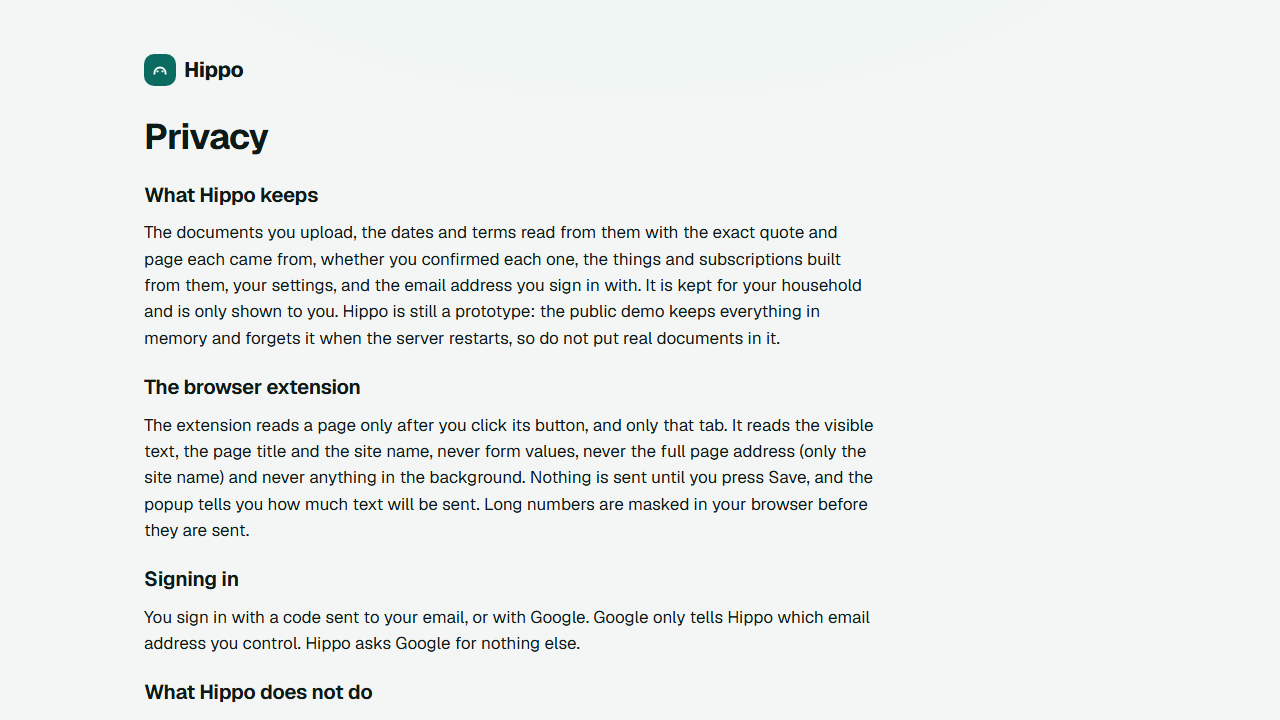
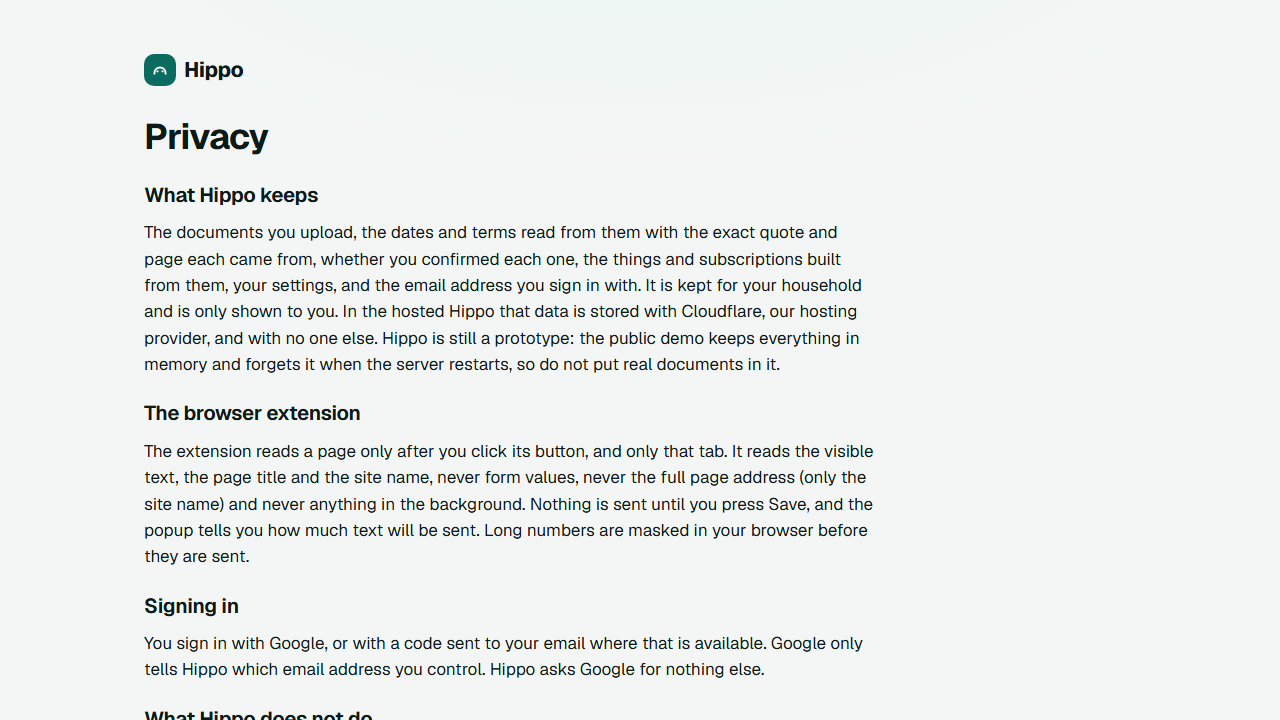
fix(extension): a store build requires its client id; docs: the gates found in review before email goes live

Changed region(s): [[0.0938, 0.4278, 0.6875, 1.0]]

diff --git a/apps/extension/build/manifest.ts b/apps/extension/build/manifest.ts
@@ -26,6 +26,8 @@ export interface Target {
   apiOrigin?: string;
   /** Store builds: where the web app is. The extension only opens pages there, so it gets no host permission. */
   webOrigin?: string;
+  /** Store builds: the OAuth client id the server knows the extension by. No fallback, so a store package never signs in as the demo client. */
+  clientId?: string;
   /**
    * Store builds, optional: the public key the Chrome Web Store dashboard gives, which keeps the extension id the same
    * across uploads. Left out, the id is the one the store assigns.
@@ -68,6 +70,11 @@ export function buildManifest(template: Record<string, unknown>, t: Target): Man
   const problems = [originProblem("VITE_HIPPO_API", t.apiOrigin), originProblem("VITE_HIPPO_WEB", t.webOrigin)].filter(
     (p): p is string => p !== null,
   );
+  if (!t.clientId || !/^[A-Za-z0-9._-]{1,100}$/.test(t.clientId)) {
+    problems.push(
+      "VITE_HIPPO_CLIENT_ID must be set to the server's client id for the extension (letters, digits, dots, dashes).",
+    );
+  }
   if (t.publicKey !== undefined && !/^[A-Za-z0-9+/]{100,}={0,2}$/.test(t.publicKey)) {
     problems.push("VITE_HIPPO_PUBLIC_KEY is not a base64 public key.");
   }

diff --git a/apps/extension/test/storeManifest.test.ts b/apps/extension/test/storeManifest.test.ts
@@ -18,6 +18,7 @@ const store = {
   version: "0.1.0",
   apiOrigin: "https://api.hippo-app.workers.dev",
   webOrigin: "https://api.hippo-app.workers.dev",
+  clientId: "hippo-store",
 };
 
 describe("the dev manifest", () => {
@@ -73,6 +74,11 @@ describe("the store manifest", () => {
       expect((e as Error).message).toContain("VITE_HIPPO_API");
       expect((e as Error).message).toContain("VITE_HIPPO_WEB");
     }
+  });
+
+  it("refuses a store build with no client id, so it never signs in as the demo client", () => {
+    expect(() => buildManifest(template, { ...store, clientId: undefined })).toThrow(/VITE_HIPPO_CLIENT_ID/);
+    expect(() => buildManifest(template, { ...store, clientId: "has space" })).toThrow(/VITE_HIPPO_CLIENT_ID/);
   });
 
   it("refuses a public key that is not base64", () => {

diff --git a/apps/extension/test/storeBuild.test.ts b/apps/extension/test/storeBuild.test.ts
@@ -96,6 +96,12 @@ describe("a store build", () => {
     setEnv(ENV);
   }, 120_000);
 
+  it("refuses to build with no client id", async () => {
+    setEnv({ VITE_HIPPO_CLIENT_ID: undefined });
+    await expect(run()).rejects.toThrow(/VITE_HIPPO_CLIENT_ID/);
+    setEnv(ENV);
+  }, 120_000);
+
   it("refuses to build when an address is missing", async () => {
     setEnv({ VITE_HIPPO_WEB: undefined });
     await expect(run()).rejects.toThrow(/VITE_HIPPO_WEB/);

diff --git a/apps/extension/build/plugin.ts b/apps/extension/build/plugin.ts
@@ -35,6 +35,7 @@ export function extensionPackage(root: string): Plugin {
       version,
       ...(env.VITE_HIPPO_API ? { apiOrigin: env.VITE_HIPPO_API } : {}),
       ...(env.VITE_HIPPO_WEB ? { webOrigin: env.VITE_HIPPO_WEB } : {}),
+      ...(env.VITE_HIPPO_CLIENT_ID ? { clientId: env.VITE_HIPPO_CLIENT_ID } : {}),
       ...(env.VITE_HIPPO_PUBLIC_KEY ? { publicKey: env.VITE_HIPPO_PUBLIC_KEY } : {}),
     });
 

diff --git a/decisions.md b/decisions.md
@@ -229,3 +229,10 @@ No decisions log exists on main (MEMORY.md is only in old worktrees), so this fi
 - **What:** every statement that saving is refused on "any hosted server" (docs/PRIVACY.md, WEB_API.md, HANDOFF_CHROME_EXTENSION.md, ARCHITECTURE.md, the root README, the extension README, `store/listing.md`, and my own PR description) now says the Node demo server refuses and the Cloudflare backend saves per person. The privacy page now covers the daily email default and its turn off link, hosting on Cloudflare, and Google or an emailed code. The listing's blockers are rewritten to what is really left, and its data answers name Cloudflare as the processor.
 - **Why:** reading the code showed my earlier statement was wrong for the Workers backend. The gate (`isLocalOnly`) is only in the Node demo server, where a shared household makes it right.
 - **Left on purpose:** the landing page still says the extension saves to a server on your own computer, which is true until a beta is deployed. It is listed as a blocker in `store/listing.md` so it changes at deploy time. Nothing is deployed, so no document says it is.
+
+## 2026-11-02: review of the hosted path: what was fixed and what is a gate (+claude)
+- **Fixed:** a store build now requires `VITE_HIPPO_CLIENT_ID` (it would otherwise fall back to the demo client id and the localhost scan would not notice). Two tests and the README updated.
+- **Tried and reverted:** sending `/unsubscribe/` (trailing slash) to the Worker. The Worker app does not answer that address, so it only moved the 404; left as the app's own not found page (low impact, the emailed link has no trailing slash).
+- **Gates before turning email on, written into `apps/edge/README.md`:** (1) the digest address can be changed in Settings without verification, which with the default-on email lets a person aim a digest at a stranger. (2) The cron does all households in one run; the per run request limit on the free plan is unverified. Neither matters on the free beta (no email), both matter the day email is enabled.
+- **Accepted, documented:** `ensureHousehold` is read then write, so a first sign in at the same instant as a Settings save could put the daily email back on (milliseconds, first sign in only). The digest's html is built but only plain text is sent.
+- **Review verdict:** PASS, no blocking findings. Checked by the reviewer: household isolation, unsubscribe token handling (the query string is not logged, GET changes nothing, the token cannot name another household), logs hold counts only, the store package cannot carry a development key or address.

diff --git a/apps/extension/README.md b/apps/extension/README.md
@@ -37,10 +37,10 @@ The public key in `manifest.template.json` fixes the id `gcanedelajoahpaoeeonbdl
 The local build (`pnpm --filter @hippo/extension build`, folder `dist/`) keeps the local host and the development key. The store build is separate and cannot carry either:
 
 ```bash
-VITE_HIPPO_API=https://<your worker address> VITE_HIPPO_WEB=https://<your worker address>   pnpm --filter @hippo/extension build:store
+VITE_HIPPO_API=https://<your worker address> VITE_HIPPO_WEB=https://<your worker address> VITE_HIPPO_CLIENT_ID=<client id> pnpm --filter @hippo/extension build:store
 ```
 
-It writes `dist-store/` and `release/hippo-<version>.zip` (both git ignored). The version comes from `package.json` only. The build stops before building anything if an address is not a plain https origin (no localhost, IP address, wildcard, path or user name), and stops after building if any text file in the package still contains a development address. Set `VITE_HIPPO_CLIENT_ID` if the server's client id is not `hippo-demo`. The tests (`test/storeManifest.test.ts`, `test/storeBuild.test.ts`) run a real store build and check the manifest, the files and the zip.
+It writes `dist-store/` and `release/hippo-<version>.zip` (both git ignored). The version comes from `package.json` only. The build stops before building anything if an address is not a plain https origin (no localhost, IP address, wildcard, path or user name), and stops after building if any text file in the package still contains a development address. `VITE_HIPPO_CLIENT_ID` is required (the server's client id for the extension, the same as `HIPPO_CLIENT_ID` on the Worker), so a store package never signs in as the demo client. The tests (`test/storeManifest.test.ts`, `test/storeBuild.test.ts`) run a real store build and check the manifest, the files and the zip.
 
 Steps for the first release, in order:
 

diff --git a/apps/edge/README.md b/apps/edge/README.md
@@ -55,3 +55,7 @@ Nothing here has been run on a real account for this tier yet (`docs/VERIFIED.md
 7. Check by hand: `/healthz`, `/` (the app), `/oauth/providers` (answers `google: true`, `email: false`), then sign in with Google, save a page with the extension, review and confirm it in the app. `scripts/smoke.mjs` cannot sign in on a real Worker (it reads the sign in code from a log, which production never writes).
 
 The daily cron runs the cleanup and the reminder job. With no email binding the reminder job still makes the alerts (Coming up is right) and counts the digest as a dry run. To turn email on later: add `[[send_email]]` with `name = "EMAIL"`, set `HIPPO_MAIL_FROM` to an address on a verified domain, and redeploy. People then get sign in codes by email, and the daily digest with its turn off link, with no code change.
+
+**Before turning email on** (found in review, not yet fixed in code):
+- `PUT /api/settings` lets a signed in person set the digest address to any address without verifying it. With the daily email on by default and sending enabled, that could point someone's digest at a stranger (the turn off link only turns off the sender's own household). Verify a new address with a code, or accept only the signed in address, before the `EMAIL` binding goes live.
+- The cron does its database queries and recall requests for every household in one run. Cloudflare limits the requests one run may make (the free plan figure, 50, is unverified here: `docs/VERIFIED.md` 10.20 did not cover it), so add a per run household cap or batching before there are many people.
